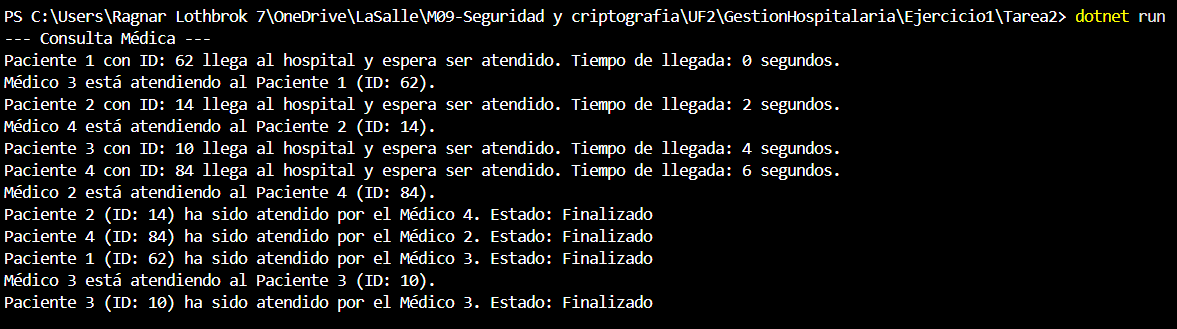
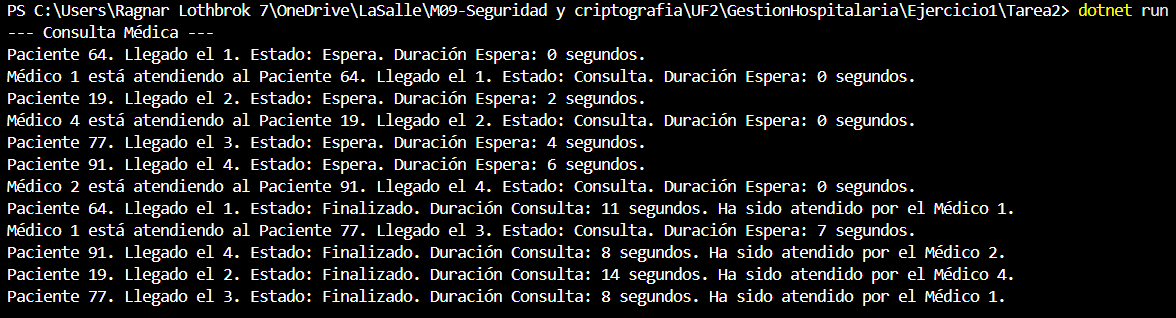
Tarea 2 terminada

Changed region(s): [[0.0, 0.0, 1.0, 0.9623]]

diff --git a/Ejercicio1/Tarea2/Program.cs b/Ejercicio1/Tarea2/Program.cs
@@ -75,7 +75,7 @@ namespace GestionHospitalaria
 
                 Paciente nuevoPaciente = new Paciente(idAleatorio, numeroPaciente, tiempoConsulta, tiempoLlegada);
                 
-                Console.WriteLine($"Paciente {numeroPaciente} con ID: {nuevoPaciente.Id} llega al hospital y espera ser atendido. Tiempo de llegada: {nuevoPaciente.TiempoLlegada} segundos.");
+                Console.WriteLine($"Paciente {nuevoPaciente.Id}. Llegado el {nuevoPaciente.LlegadaHospital}. Estado: {nuevoPaciente.Estado}. Duración Espera: {nuevoPaciente.TiempoLlegada} segundos.");
                 colaPacientes.Add(nuevoPaciente);
 
                 numeroPaciente++;
@@ -100,13 +100,18 @@ namespace GestionHospitalaria
 
                 try
                 {
+                    int tiempoInicioConsulta = (int)(cronometro.ElapsedMilliseconds / 1000);
                     paciente.Estado = "Consulta";
-                    Console.WriteLine($"Médico {numeroMedico + 1} está atendiendo al Paciente {paciente.LlegadaHospital} (ID: {paciente.Id}).");
+                    int duracionEspera = tiempoInicioConsulta - paciente.TiempoLlegada;
+
+                    Console.WriteLine($"Médico {numeroMedico + 1} está atendiendo al Paciente {paciente.Id}. Llegado el {paciente.LlegadaHospital}. Estado: {paciente.Estado}. Duración Espera: {duracionEspera} segundos.");
 
                     Thread.Sleep(paciente.TiempoConsulta); // Tiempo de consulta aleatorio
 
+                    int tiempoFinConsulta = (int)(cronometro.ElapsedMilliseconds / 1000);
+                    int duracionConsulta = tiempoFinConsulta - tiempoInicioConsulta;
                     paciente.Estado = "Finalizado";
-                    Console.WriteLine($"Paciente {paciente.LlegadaHospital} (ID: {paciente.Id}) ha sido atendido por el Médico {numeroMedico + 1}. Estado: {paciente.Estado}");
+                    Console.WriteLine($"Paciente {paciente.Id}. Llegado el {paciente.LlegadaHospital}. Estado: {paciente.Estado}. Duración Consulta: {duracionConsulta} segundos. Ha sido atendido por el Médico {numeroMedico + 1}.");
                 }
                 finally
                 {
